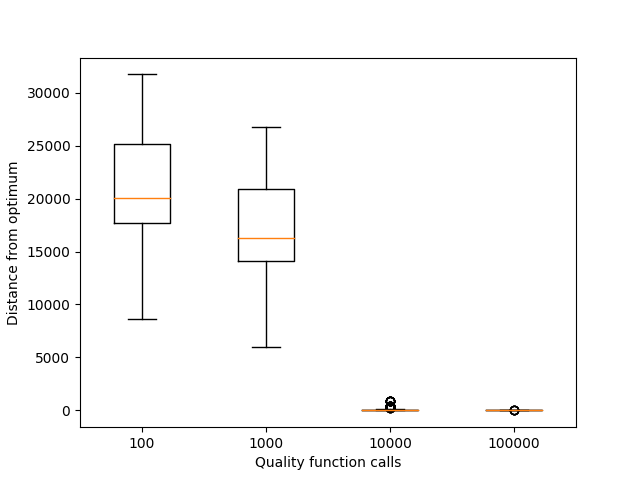
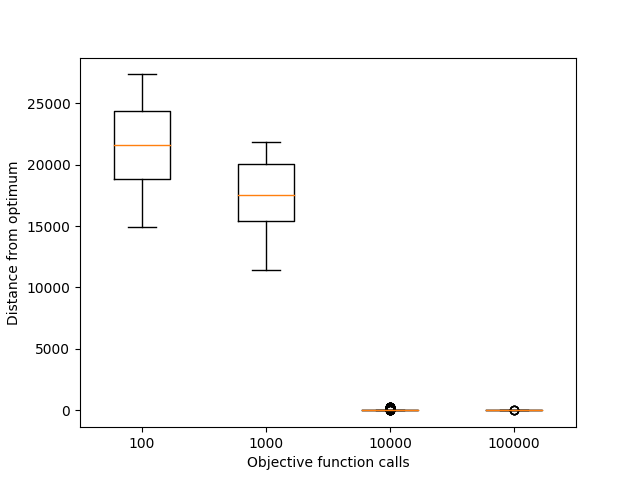
Remove redundant tests

diff --git a/main.py b/main.py
@@ -34,8 +34,7 @@ if __name__ == '__main__':
     benchmark_small_population = MyBenchmark(is_algorithm_minimizing_function, sphere_optimal_objective_function_value)
     benchmark_big_population = MyBenchmark(is_algorithm_minimizing_function, sphere_optimal_objective_function_value)
 
-    results_dict = {'10k': {},
-                    '100k': {}}
+    results_dict = {}
     results_filename = 'results.json'
     results_directory_name = 'results/'
 
@@ -59,38 +58,32 @@ if __name__ == '__main__':
                                          type_of_succession=Evolution.GENERATION_SUCCESSION,
                                          )
 
-    # Dictionary used to shorten and improve readability of output files and displayed results
-    shorthands = {
-        10000: '10k',
-        100000: '100k'
-    }
+    max_objective_fun_calls = 100000
 
-    for max_objective_fun_calls in [10000, 100000]:
+    for i in range(number_of_experiment_repetitions):
+        evolution_small_population.evolve(Evolution.MAX_OBJECTIVE_FUNCTION_CALLS,
+                                          max_objective_function_calls=max_objective_fun_calls,
+                                          benchmark=benchmark_small_population)
 
-        for i in range(number_of_experiment_repetitions):
-            evolution_small_population.evolve(Evolution.MAX_OBJECTIVE_FUNCTION_CALLS,
-                                              max_objective_function_calls=max_objective_fun_calls,
-                                              benchmark=benchmark_small_population)
+    for i in range(number_of_experiment_repetitions):
+        evolution_big_population.evolve(Evolution.MAX_OBJECTIVE_FUNCTION_CALLS,
+                                        max_objective_function_calls=max_objective_fun_calls,
+                                        benchmark=benchmark_big_population)
 
-        for i in range(number_of_experiment_repetitions):
-            evolution_big_population.evolve(Evolution.MAX_OBJECTIVE_FUNCTION_CALLS,
-                                            max_objective_function_calls=max_objective_fun_calls,
-                                            benchmark=benchmark_big_population)
+    print('Small population results - 100k objective function calls')
+    small_population_results = benchmark_small_population.get_results()
+    pprint(small_population_results)
+    benchmark_small_population.create_and_save_boxplot(
+        results_directory_name + 'small_population_100k_calls.png')
 
-        print('Small population results - {} objective function calls'.format(shorthands[max_objective_fun_calls]))
-        small_population_results = benchmark_small_population.get_results()
-        pprint(small_population_results)
-        benchmark_small_population.create_and_save_boxplot(
-            results_directory_name + 'small_population_' + shorthands[max_objective_fun_calls] + '_calls.png')
+    print('Big population results - 100k objective function calls')
+    big_population_results = benchmark_big_population.get_results()
+    pprint(big_population_results)
+    benchmark_big_population.create_and_save_boxplot(
+        results_directory_name + 'big_population_100k_calls.png')
 
-        print('Big population results - {} objective function calls'.format(shorthands[max_objective_fun_calls]))
-        big_population_results = benchmark_big_population.get_results()
-        pprint(big_population_results)
-        benchmark_big_population.create_and_save_boxplot(
-            results_directory_name + 'big_population_' + shorthands[max_objective_fun_calls] + '_calls.png')
-
-        results_dict[shorthands[max_objective_fun_calls]]['small population'] = small_population_results
-        results_dict[shorthands[max_objective_fun_calls]]['big population'] = big_population_results
+    results_dict['small population'] = small_population_results
+    results_dict['big population'] = big_population_results
 
     end_time = time()
 
